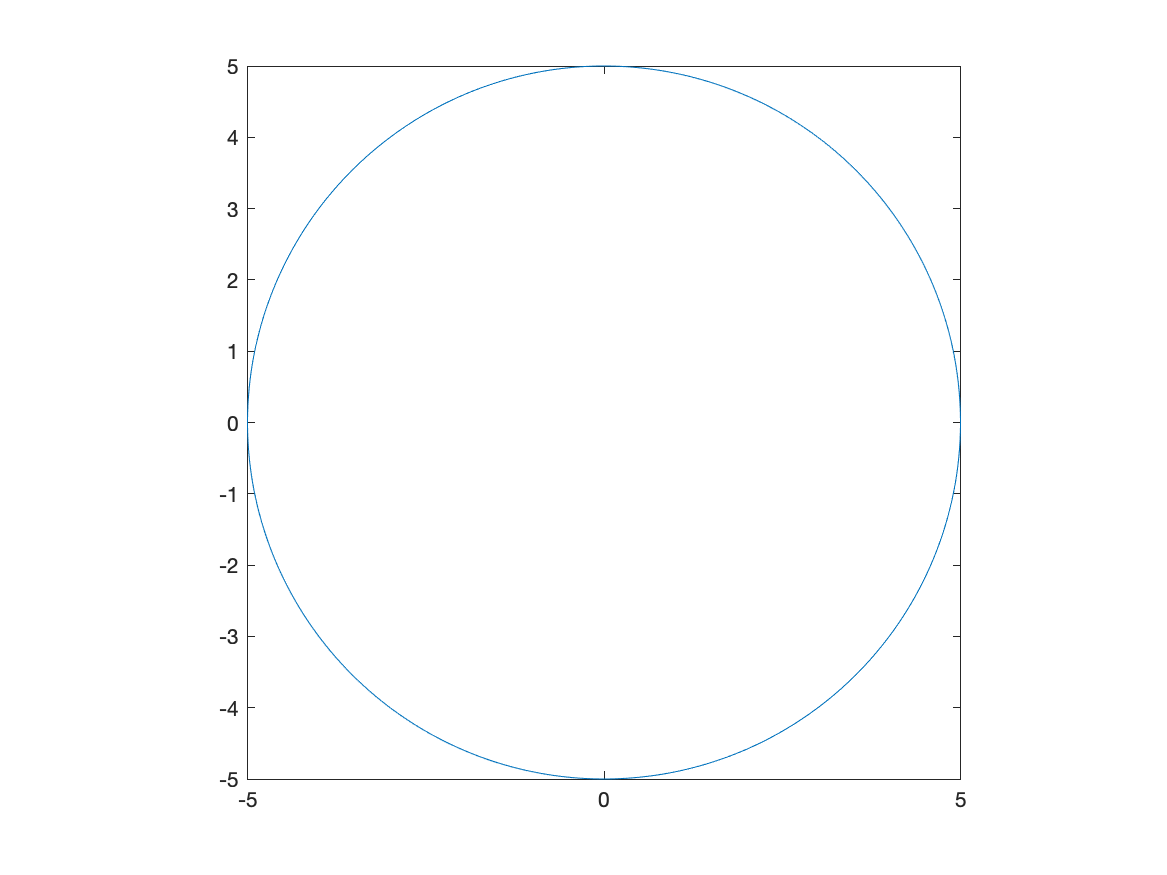
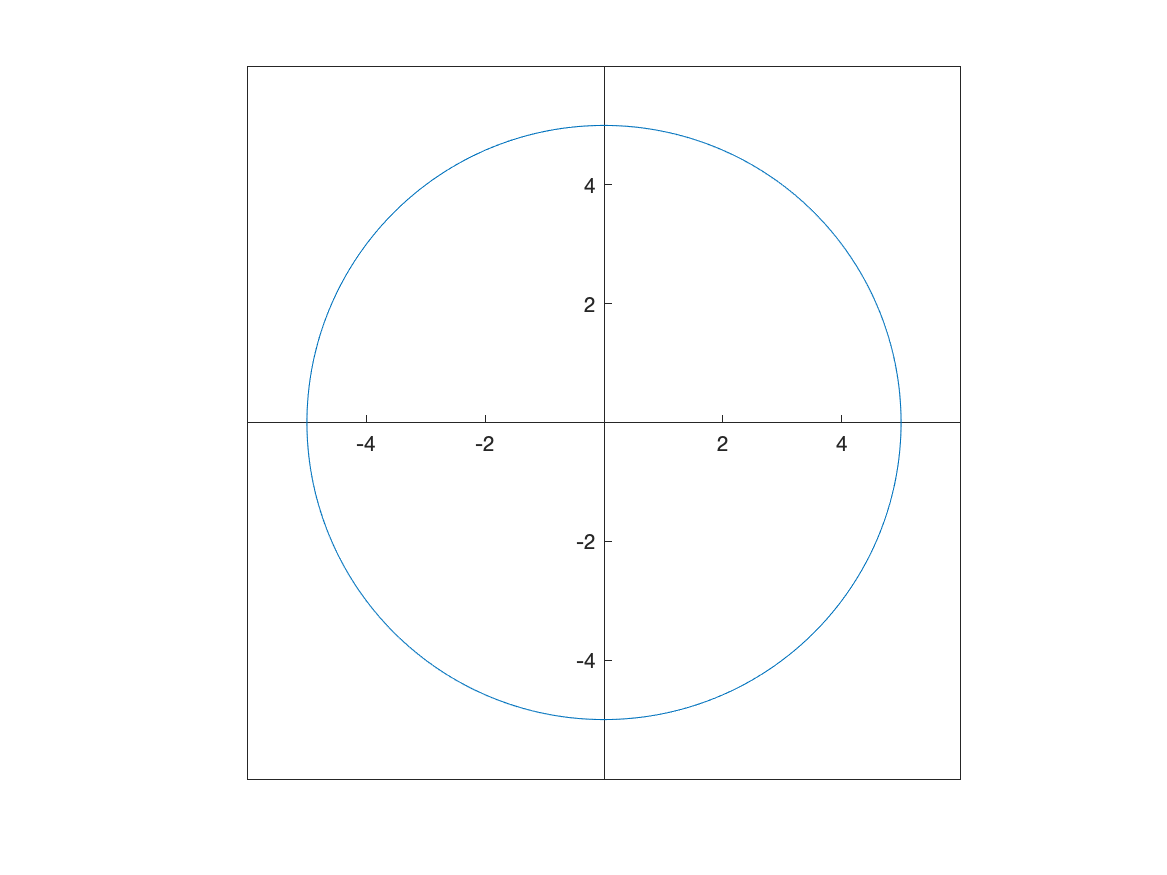
typos

diff --git a/sym-comp-notes/ch-06.md b/sym-comp-notes/ch-06.md
@@ -7,15 +7,15 @@ mathjax: true
 
 The following are number of advanced techniques in Matlab.  Again, these are general ideas that appear in any CAS, but the format will be specific to Matlab.  We will use these techniques to solve more complicated series of mathematical steps in a nice way. The following techniques are described here:
 
-* *functions*  A function in computer science is similar to that of a mathematical function, however, but allow more complicated steps to occur.
-* *boolean values*  A boolean is something that is either true or false.
-* *if and while statements*  An if statement allows a few statements of code to branch depending on some condition.  A while statement allows for a few statements of code to continue to run until a condition occurs.
-* *loops*  A loop is a few statements of code that is run generally a fixed number of times.
-* *recursion*  Recursion is a type of procedure that allows code to call itself.  Although often you can generate code that duplicates recursive code, it is often clearer to understand and often come directly from mathematical statements.
+* _functions_  A function in computer science is similar to that of a mathematical function, however, but allow more complicated steps to occur.
+* _boolean values_  A boolean is something that is either true or false.
+* _if and while statements_  An if statement allows a few statements of code to branch depending on some condition.
+* _loops_  A loop is a few statements of code that is run generally a fixed number of times. There are _while loops_ that repeat a block of code while some condition is true.  There are also _for loops_ that repeat a block of code a fixed number of times.
+* _recursion_  Recursion is a type of procedure that allows code to call itself.  Although often you can generate code that duplicates recursive code, it is often clearer to understand and often come directly from mathematical statements.
 
 ## Functions
 
-In Matlab, functions (must like in other computer languages) have one or more inputs and the result is some output (numbers, a plot, an expression).  All of the commands that we have seen so far that are built-in to Matlab are functions.
+In Matlab, functions (much like in other computer languages) have one or more inputs and the result is some output (numbers, a plot, an expression).  All of the commands that we have seen so far that are built-in to Matlab are functions.
 
 The mathematical functions that we have encounted in this course are a bit different that what we are talking about here.  We can define a square function with
 
@@ -33,7 +33,7 @@ A few things to note with this
 * The output is the variable that is defined as _y_ in the function.
 * Functions can allow more complicated structures as we will see.
 * You can call this in the same way, $f(2),f(-2)$ for example.
-* The semicolon in a function suppresses any ouput.
+* The semicolon inside a function suppresses any ouput.
 * The indentation help with readability.  It isn't needed, but help to understand the interior of a function.
 
 Let's also examine a similar function that adds numbers:
@@ -113,11 +113,11 @@ x ~= 7
 
 The modulus of an integer is the remainder in division.  For example, 7 mod 3 is 1.  In matlab, you can call this function like `mod(7,3)`.
 
-Write a procedure call `isOdd` that take a positive integer (type `posint`) and returns `true` if the number is odd and `false` if not.  Use the modulus with the divisor 2.
+Write a procedure call `isOdd` that takes a number and returns `true` if the number is odd and `false` if not.  Use the modulus with the divisor 2.
 
 ## Loops
 
-A *loop* is a series of statements that are repeated either a fixed number of times or until a condition occurs.  They can be very helpful if a large number of operations need to be done in a predictable manner.
+A _loop_ is a series of statements that are repeated either a fixed number of times or until a condition occurs.  They can be very helpful if a large number of operations need to be done in a predictable manner.
 
 ### `while` loops
 
@@ -436,13 +436,13 @@ Notice that this looks just like other piecewise functions, like the absolute va
 
 ## Another Fun Recursive example
 
-Here&#8217;s another fun example.  A number $n$ is called *happy* by the following
+Here&#8217;s another fun example.  A number $n$ is called _happy_ by the following
 
 1. Take the digits of $n$ and square each one.
 2. Sum the squares.
 3. if the sum is 1, then the number is happy, if not repeat these steps.
 
-Note: it&#8217;s also helpful that if this process results in the number 4, then you can never result in a sequence that reaches 1.  You can call these number *unhappy*.
+Note: it&#8217;s also helpful that if this process results in the number 4, then you can never result in a sequence that reaches 1.  You can call these number _unhappy_.
 
 * The number 13 is a happy number because $1^{2}+3^{2}=10$ and $1^{2}+0^{2}=1$, so the result ends in 1.
 * The number 19 is also happy because $1^{2}+9^{2}=1+81=82$, then $8^{2}+2^{2}=64+4=68$, then $6^{2}+8^{2}=36+64=100$, then $1^{2}+0^{2}+0^{2}=1$.

diff --git a/sym-comp-notes/ch-05.md b/sym-comp-notes/ch-05.md
@@ -421,32 +421,28 @@ $$\frac{dy}{dx}=-\frac{x}{y}$$
 To do this in Matlab, we can do the following.  First define the function like
 
 ```matlab
+syms y(x)
 circle = x^2+y(x)^2 ==25
 ```
 
-where it is important to write any $y$ terms as `y(x)`.  Now we can take the derivative:
+where it is important to write any $y$ terms as `y(x)` and we have to tell Matlab that $y$ is a symbolic functino.  Now we can take the derivative:
 
 ```matlab
 dcirc = diff(circle,x)
 ```
 
 which returns:
-$$2\,x+2\,dy\,y\left(x\right)=0$$
-and technically the derivative is actually $dy/dx$.
+$$2\,x+2\,y\left(x\right)\,\frac{\partial }{\partial x}\;y\left(x\right)=0$$
+and matlab makes a curly 'd' which means partial derivative.  Don't worry about this.
 
 Now unfortunately, Matlab doesn't have the ability to solve for the derivative (or substitute something else for the derivative), so we will retype this:
 
 ```matlab
-dc = 2*y*dy + 2*x == 0
+syms dydx
+solve(2*x+2*y*dydx==0,dydx)
 ```
 
-and then we can solve for `dy` with
-
-```matlab
-solve(dcirc,dy)
-```
-
-returns
+which returns
 $$-\frac{x}{y\left(x\right)}$$
 the same result as above.
 
@@ -456,7 +452,7 @@ This is a little clunky.  We now show an alternative to this.
 
 So technically this comes from Multivariate Calculus, but it's not too difficult.
 
-If we have an equation of the form $F(x,y)=c$, for any constant $c$, then the derivative is
+_Implicit Function Theorem_: If we have an equation of the form $F(x,y)=c$, for any constant $c$, then the derivative is
 $$\frac{dy}{dx} = -\frac{F_x}{F_y}$$
 where
 $$F_x = \frac{\partial F}{\partial x} \qquad F_y = \frac{\partial F}{\partial y}$$
@@ -477,17 +473,25 @@ $$
 $$
 which is the same as above.
 
+### Implicit Derivative Exercise
+
+Find $dy/dx$ if $(x^2+y^2)\sin x = (x^2-y^2) \cos x$. Hint: rewrite the equation in the form $F(x,y)=0$ and use the implicit function theorem.
+
 ## Implicit Plots
 
 We can plot the implicit equation $x^2+y^2=25$ using the `fimplicit` command as
 
 ```matlab
-fimplicit(x^2+y^2==25)
+syms x y
+fimplicit(x^2+y^2-25, [-6 6 -6 6])
 daspect([1 1 1])
+set(gca, 'XAxisLocation', 'origin', 'YAxisLocation', 'origin')
 ```
 
 and results in
 ![Plot of a circle of radius 5](images/ch05/plot10.png)
+
+We'll see `fimplicit` a little later in the book.
 
 ### Finding and plotting the tangent line to an implicit curve
 
@@ -516,7 +520,7 @@ The result is
 
 ### Exercise: Tangent lines of implicit curves
 
-There is a class of implicit curves called *elliptic curves* that have the form
+There is a class of implicit curves called _elliptic curves_ that have the form
 $$y^2=x^3+ax+b$$
 we will plot the curve
 $$y^2=x^3-4x+1$$
@@ -526,5 +530,9 @@ $$y^2=x^3-4x+1$$
 3. Find $\frac{dy}{dx}$ using the implicit function theorem shown above.  Define $F(x,y)$ such that the equation is $F(x,y)=c$.
 4. Find the tangent line to the curve at $(-1,2)$.
 5. Plot the curve and the tangent line.
+
+## Finding $d^2y/dx^2$ implicitly
+
+Add this section.
 
 [Previous Chapter](ch-04.html) | [Return to all notes](index.html) | [Next chapter](ch-06.html)

diff --git a/sym-comp-notes/ch-02.md b/sym-comp-notes/ch-02.md
@@ -154,6 +154,24 @@ Graph the functions $\sin x, \sin 2x,$ and $2 \sin x$ on the same coordinate axi
 
 Hint: see above on getting multiples of $\pi/2$ for you $x$ tick marks.
 
+## Using Axes that pass through the origin
+
+You probably have noticed that Matlab by default puts plots in a box and labels the axes on the edges.  Typically in most math classes, plots are done with coordinate axes that pass through the origin.  There is a simple (but lengthy) way to tell Matlab to plot the axes this way.
+
+Adding `set(gca, 'XAxisLocation', 'origin', 'YAxisLocation', 'origin')` after a plot is made will do this.  For example,
+
+```matlab
+fplot(x^2,[-2 2])
+ylim([-2 2])
+set(gca, 'XAxisLocation', 'origin', 'YAxisLocation', 'origin')
+```
+
+produces the following plot:
+
+![A plot the top half of a circle](images/ch02/plot07a.png)
+
+The line starting `gca(set...` can be used for any plot.
+
 ## Changing the Aspect Ratio of a Plot
 
 Recall that the function $f(x)=\sqrt{4-x^2}$ is the top half of a circle.  If we plot this with
